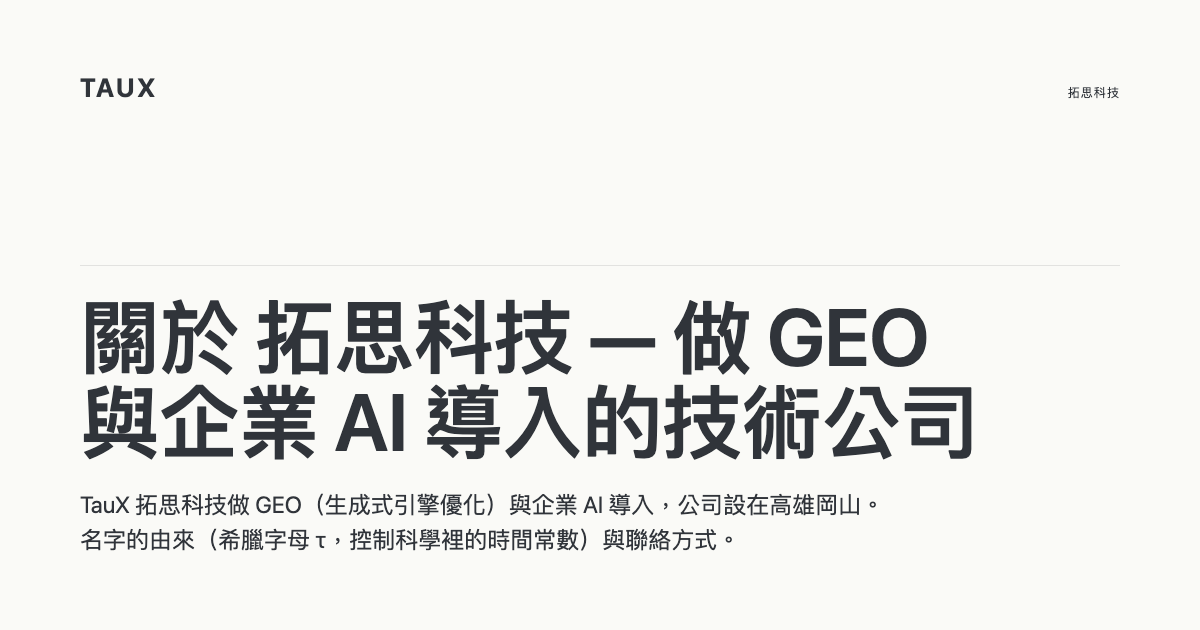
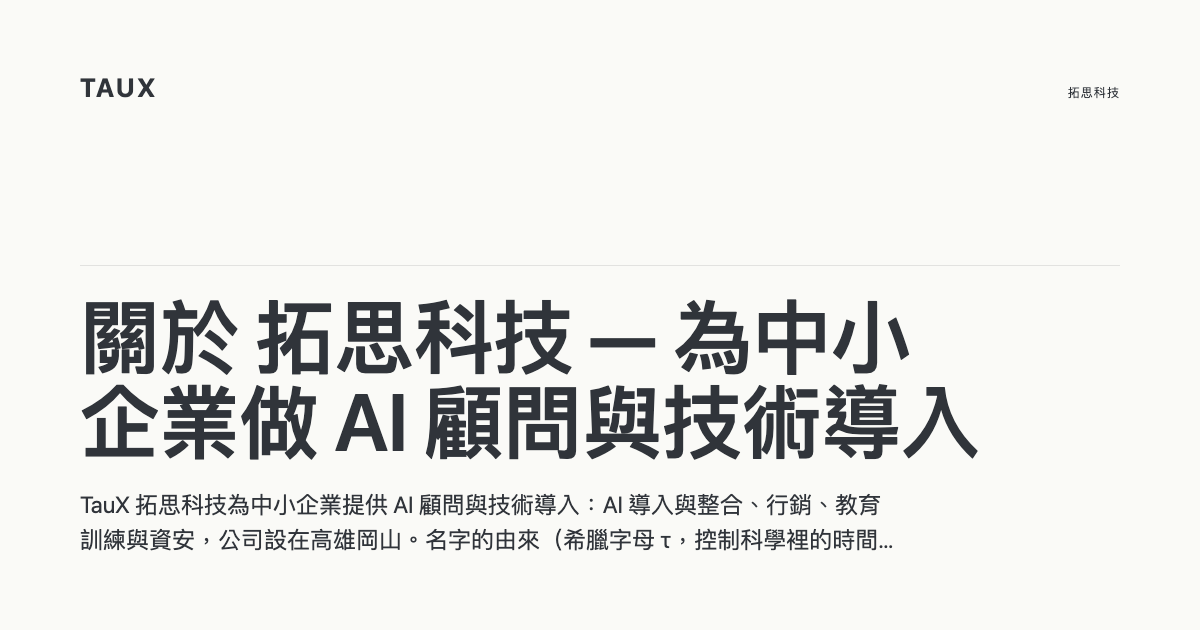
v6 ③：頁尾加公司地址與 email（全站）；about 頁定位改為「為中小企業做 AI 顧問與技術導入」（五語系，含 title、description、llms.txt、分享卡）
Claude-Session: https://claude.ai/code/session_01RAHddskW8i45K3jvJXSmfn

diff --git a/templates/ja-JP/about.html b/templates/ja-JP/about.html
@@ -30,10 +30,10 @@
                  `heading structure` asks this locale for a `display-sub`
                  (decision #56). -->
             <span class="display-lead" lang="en">A technology company in Kaohsiung</span>
-            <span class="display-sub">GEO と企業の AI 導入を手がける技術会社</span>
+            <span class="display-sub">中小企業の AI コンサルティングと技術導入</span>
         </h1>
         <p class="text-xl max-w-[42ch] leading-relaxed mb-6">
-            TauX 拓思科技は、GEO（生成エンジン最適化）と企業の AI 導入を手がけています。拠点は台湾・高雄の岡山です。
+            TauX 拓思科技は、中小企業向けに AI のコンサルティングと技術導入を行っています。AI 導入と統合、マーケティング、研修、セキュリティの四つの分野です。拠点は台湾・高雄の岡山です。
         </p>
         <p class="text-sm max-w-[42ch] leading-relaxed font-sans">
             社名はギリシャ文字 <strong class="font-sans">τ</strong> に由来します。Tau は制御工学と物理学における<strong>時定数</strong>——システムが外部の変化に反応し、新しい安定状態へ移るまでにかかる時間です。TauX が扱うのは、企業が AI に適応するときの時定数です。適応するかどうかではなく、どれだけ時間がかかるか。

diff --git a/templates/ko-KR/about.html b/templates/ko-KR/about.html
@@ -28,10 +28,10 @@
                  the two-line h1 holds here as it does for the CJK locales and
                  not for English (decision #56). -->
             <span class="display-lead" lang="en">A technology company in Kaohsiung</span>
-            <span class="display-sub">GEO와 기업 AI 도입을 하는 기술 회사</span>
+            <span class="display-sub">중소기업을 위한 AI 컨설팅과 기술 구현</span>
         </h1>
         <p class="text-xl max-w-[42ch] leading-relaxed mb-6">
-            TauX 拓思科技는 GEO(생성형 엔진 최적화)와 기업 AI 도입을 합니다. 회사는 대만 가오슝 강산에 있습니다.
+            TauX 拓思科技는 중소기업을 위해 AI 컨설팅과 기술 구현을 합니다. AI 도입과 통합, 마케팅, 교육, 보안의 네 분야입니다. 회사는 대만 가오슝 강산에 있습니다.
         </p>
         <p class="text-sm max-w-[42ch] leading-relaxed font-sans">
             회사 이름은 그리스 문자 <strong class="font-sans">τ</strong>에서 왔습니다. Tau는 제어공학과 물리학에서 말하는 <strong>시정수</strong>, 곧 시스템이 외부 변화에 반응해 새로운 안정 상태로 옮겨 가기까지 걸리는 시간입니다. TauX가 다루는 것은 기업이 AI에 적응할 때의 시정수입니다. 적응하느냐가 아니라, 얼마나 걸리느냐입니다.

diff --git a/templates/zh-Hans-CN/about.html b/templates/zh-Hans-CN/about.html
@@ -30,10 +30,10 @@
                  somewhere different on each. This line is shorter and fits on
                  one at every width the geometry gate walks. -->
             <span class="display-lead" lang="en">A technology company in Kaohsiung</span>
-            <span class="display-sub">做 GEO 与企业 AI 导入的技术公司</span>
+            <span class="display-sub">为中小企业做 AI 顾问与技术导入</span>
         </h1>
         <p class="text-xl max-w-[42ch] leading-relaxed mb-6">
-            TauX 拓思科技做 GEO（生成式引擎优化）与企业 AI 导入，公司设在高雄冈山。
+            TauX 拓思科技为中小企业提供 AI 顾问与技术导入：AI 导入与整合、营销、教育培训与网络安全。公司设在高雄冈山。
         </p>
         <p class="text-sm max-w-[42ch] leading-relaxed font-sans">
             我们的名字源自希腊字母 <strong class="font-sans">τ</strong>（Tau，在控制科学与物理学中代表<strong>时间常数 Time Constant</strong>，表征系统响应外界变化并过渡至全新稳定状态的关键时间）。TauX 致力于优化企业迎战 AI 浪潮的「时间常数」，加速系统性的智能跃迁。

diff --git a/templates/about.html b/templates/about.html
@@ -30,10 +30,10 @@
                  somewhere different on each. This line is shorter and fits on
                  one at every width the geometry gate walks. -->
             <span class="display-lead" lang="en">A technology company in Kaohsiung</span>
-            <span class="display-sub">做 GEO 與企業 AI 導入的技術公司</span>
+            <span class="display-sub">為中小企業做 AI 顧問與技術導入</span>
         </h1>
         <p class="text-xl max-w-[42ch] leading-relaxed mb-6">
-            TauX 拓思科技做 GEO（生成式引擎優化）與企業 AI 導入，公司設在高雄岡山。
+            TauX 拓思科技為中小企業提供 AI 顧問與技術導入：AI 導入與整合、行銷、教育訓練與資安。公司設在高雄岡山。
         </p>
         <p class="text-sm max-w-[42ch] leading-relaxed font-sans">
             我們的名字源自希臘字母 <strong class="font-sans">τ</strong>（Tau，在控制科學與物理學中代表<strong>時間常數 Time Constant</strong>，表徵系統響應外界變化並過渡至全新穩定狀態的關鍵時間）。導入 AI 也有這個常數，而縮短它就是我們在做的事。

diff --git a/templates/en-US/about.html b/templates/en-US/about.html
@@ -27,7 +27,7 @@
             <span class="display-lead text-display-sm tablet:text-display-md">A technology company in Kaohsiung</span>
         </h1>
         <p class="text-xl max-w-[42ch] leading-relaxed mb-6">
-            TauX works on GEO — Generative Engine Optimization — and on bringing AI into companies. We are based in Gangshan, Kaohsiung.
+            TauX provides AI consulting and hands-on implementation for small and medium-sized businesses — AI adoption and integration, marketing, training and security. We are based in Gangshan, Kaohsiung.
         </p>
         <p class="text-sm max-w-[42ch] leading-relaxed font-sans">
             The name comes from the Greek letter <strong class="font-sans">τ</strong> — Tau, the <strong>time constant</strong> in control theory and physics: how long a system takes to respond to a change and settle into its new state. What TauX works on is a company's time constant for AI. Not whether it adapts, but how long it takes.

diff --git a/templates/footer.html b/templates/footer.html
@@ -29,6 +29,16 @@
                     </svg>
                 </a>
                 </div>
+            <!-- Who and where, on every page (DESIGN.md decision 163): the legal
+                 name is the copyright line below, and this is the rest of what
+                 the about page and the Organization graph already state. A
+                 business that sells engagements is judged on whether it can be
+                 found and reached; a footer with only a wordmark answered
+                 neither. -->
+            <address class="not-italic mt-6 text-sm leading-relaxed">
+                {{ strings.footer_address }}<br>
+                <a href="mailto:hello@taux.io" class="inline-flex items-center min-h-11 underline underline-offset-4">hello@taux.io</a>
+            </address>
         </div>
 
         <!-- NO LINK COLUMNS HERE. The menu overlay is the only navigation.
